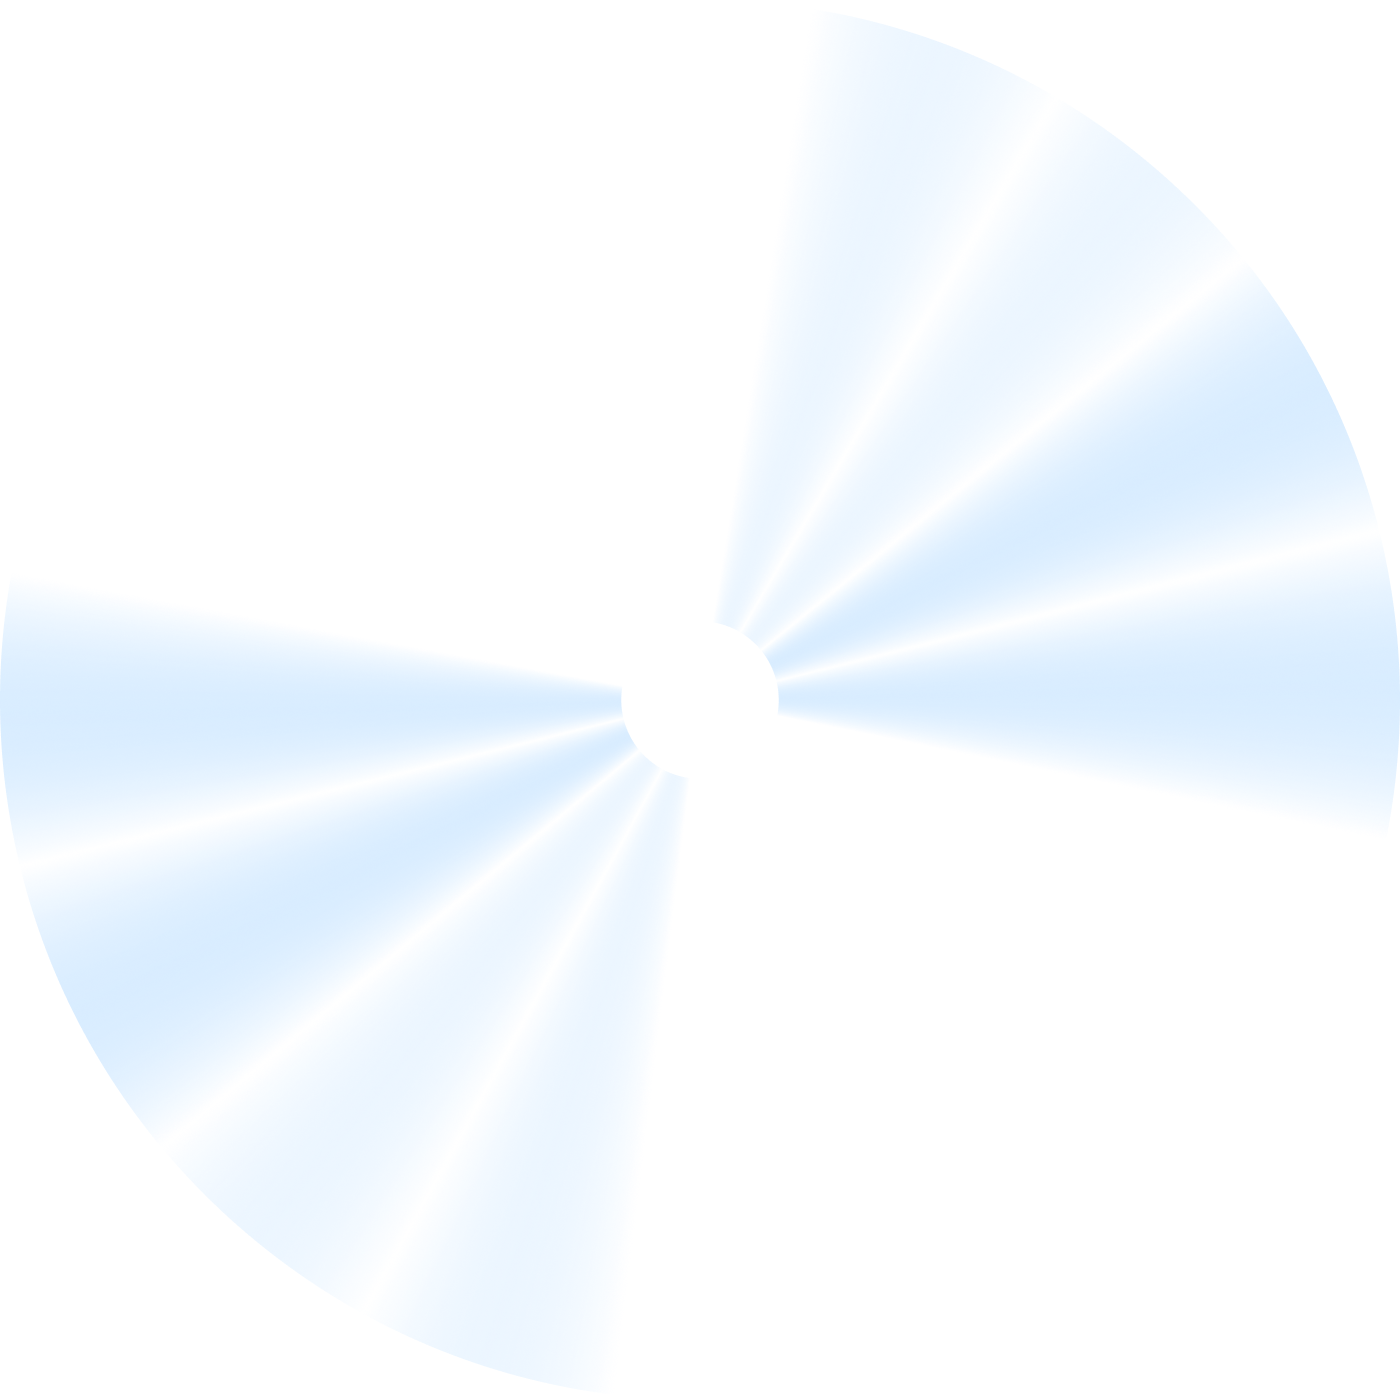
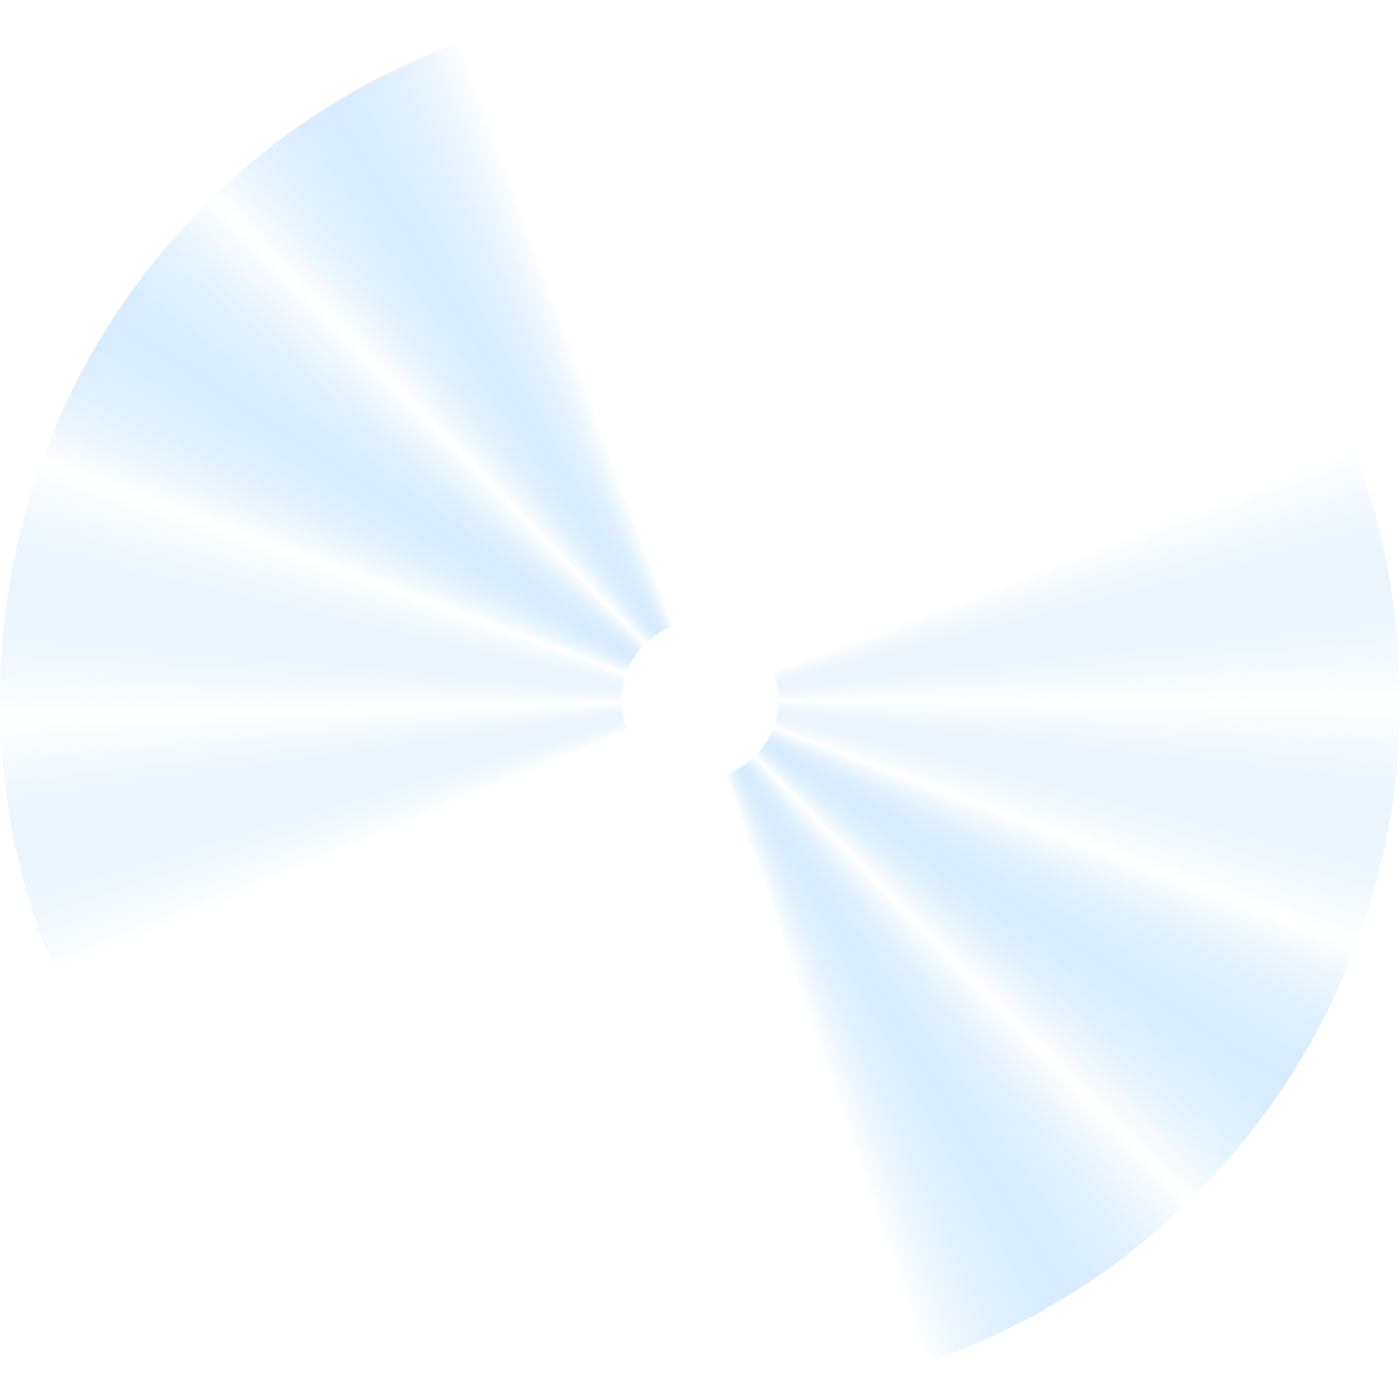
fixed cd rotation stuff

Changed region(s): [[0.5221, 0.215, 1.0, 0.9521], [0.0, 0.0307, 0.4914, 0.7986]]

diff --git a/app/page.tsx b/app/page.tsx
@@ -101,12 +101,11 @@ export default function Home(props: typeof trackList) {
             (trackList.length - i + 1) * 0.0125
           }s`;
           imageImg.style.opacity = "0";
-          imageImg.style.transform = `translate3d(0,0,0) scaleY(${
-            3 - 2 * easeInQuad(scrollProgress)
-          })`;
         }
         animateImages(-3 + 3 * easeOutQuad(scrollProgress));
-        scrollImages.style.transform = `scaleY(${easeInQuad(scrollProgress)})`;
+        scrollImages.style.transform = `translateY(${
+          200 - easeInQuad(scrollProgress) * 200
+        }px)`;
 
         status1.style.transform = `translateY(${
           0 - 200 * easeInQuad(scrollProgress)
@@ -136,14 +135,13 @@ export default function Home(props: typeof trackList) {
           image.style.backgroundColor = "#000";
           imageImg.style.transitionDelay = `${i * 0.0125}s`;
           imageImg.style.opacity = "1";
-          imageImg.style.transform = `translate3d(0,0,0) scaleY(1)`;
           image.style.transform = `translate3d(0,0,0) skewX(0deg)`;
           imageImg.style.transform = `translate3d(0,0,0) skewX(0deg)`;
         }
         animateImages(easeImageScroll(scrollPercentage));
-        scrollImages.style.transform = `scaleY(1)`;
+        scrollImages.style.transform = `translateY(0)`;
         scrollImages.style.filter = `brightness(1)`;
-        // scrollImages.style.opacity = "1";
+        scrollImages.style.opacity = "1";
 
         status1.style.transform = `translateY(-200px)`;
         status1.style.opacity = "0";
@@ -171,16 +169,18 @@ export default function Home(props: typeof trackList) {
         for (let i = 0; i < trackList.length; i++) {
           const image = images[i] as HTMLElement;
           const imageImg = image.querySelector("img") as HTMLElement;
-          image.style.transform = `translate3d(0,0,0) skewX(${
-            scrollProgress * 89.5
-          }deg)`;
-          imageImg.style.transform = `translate3d(0,0,0) skewX(${
-            -scrollProgress * 89.5
-          }deg)`;
+          image.style.transform = `translate3d(0,0,0) scaleX(${
+            1 - easeOutQuad(scrollProgress) * 0.99
+          })`;
+          imageImg.style.transform = `translate3d(0,0,0) scaleX(${
+            1 + easeOutQuad(scrollProgress)
+          })`;
         }
         animateImages(1 + scrollProgress);
-        scrollImages.style.filter = `brightness(${1 + scrollProgress * 3})`;
-        // scrollImages.style.opacity = `${1 - scrollProgress}`;
+        scrollImages.style.filter = `brightness(${1 + scrollProgress * 10})`;
+        scrollImages.style.opacity = `${
+          1 - easeOutQuad(easeOutQuad(scrollProgress)) * 0.85
+        }`;
       }
     }
 
@@ -201,12 +201,10 @@ export default function Home(props: typeof trackList) {
         image.style.width = `${width}vw`;
         imageImg.style.filter = `saturate(0.2) brightness(${Math.pow(
           width / maxWidth,
-          0.5
+          0.75
         )})`;
         maxImg.style.filter = `saturate(1) brightness(1)`;
         scrollLine.style.width = `${width}vw`;
-        // scrollLine.style.backgroundColor = "rgba(255,255,255,0)";
-        // maxScrollLine.style.backgroundColor = "rgba(255,255,255,0.025)";
 
         remainingWidth -= width;
       }
@@ -419,7 +417,7 @@ export default function Home(props: typeof trackList) {
                 {trackList.map((track, i) => (
                   <div
                     key={i}
-                    className="h-[200px] relative overflow-hidden origin-top"
+                    className="h-[200px] relative overflow-hidden origin-left"
                     style={{
                       transform: "translate3d(0,0,0)",
                       transition: "background-color 0.6s ease",
@@ -476,6 +474,107 @@ export default function Home(props: typeof trackList) {
         <h1>Renaissance</h1>
         <div className="absolute top-0 left-0 w-full h-full">
           <Cd size={500} />
+        </div>
+        <div className="absolute bottom-0 left-0 w-full detail text-[12px] flex flex-row items-start gap-20 z-10 pointer-events-none">
+          <div className="max-w-[550px] text-balance">
+            <div>
+              All rights go to Beyoncé and Parkwood Entertainment Ltd. © 2022
+            </div>
+            <br />
+            Not affiliated with or endorsed by Beyoncé or Parkwood Entertainment
+            Ltd.
+            <br />
+            All images and music used are the property of their respective
+            owners.
+            <br />
+            No copyright infringement intended.
+          </div>
+          <div className="flex-1 flex flex-wrap gap-x-20 gap-y-4 justify-end">
+            <a
+              className="pointer-events-auto"
+              href="https://www.instagram.com/beyonce/"
+              target="_blank"
+            >
+              Instagram
+            </a>
+            <a
+              className="pointer-events-auto"
+              href="https://twitter.com/beyonce"
+              target="_blank"
+            >
+              Twitter
+            </a>
+            <a
+              className="pointer-events-auto"
+              href="https://www.facebook.com/beyonce"
+              target="_blank"
+            >
+              Facebook
+            </a>
+            <a
+              className="pointer-events-auto"
+              href="https://www.youtube.com/user/beyonce"
+              target="_blank"
+            >
+              YouTube
+            </a>
+            <a
+              className="pointer-events-auto"
+              href="https://open.spotify.com/artist/6vWDO969PvNqNYHIOW5v0m"
+              target="_blank"
+            >
+              Spotify
+            </a>
+            <a
+              className="pointer-events-auto"
+              href="https://music.apple.com/us/artist/beyonc%C3%A9/1419227"
+              target="_blank"
+            >
+              Apple Music
+            </a>
+            <a
+              className="pointer-events-auto"
+              href="https://tidal.com/browse/artist/4443"
+              target="_blank"
+            >
+              Tidal
+            </a>
+            <a
+              className="pointer-events-auto"
+              href="https://www.amazon.com/Beyonce/e/B00197R8L8"
+              target="_blank"
+            >
+              Amazon
+            </a>
+            <a
+              className="pointer-events-auto"
+              href="https://www.beyonce.com/"
+              target="_blank"
+            >
+              Website
+            </a>
+            <a
+              className="pointer-events-auto"
+              href="https://www.beyonce.com/shop/"
+              target="_blank"
+            >
+              Shop
+            </a>
+            <a
+              className="pointer-events-auto"
+              href="https://www.beyonce.com/foundation/"
+              target="_blank"
+            >
+              Foundation
+            </a>
+            <a
+              className="pointer-events-auto"
+              href="https://www.beyonce.com/ivy-park/"
+              target="_blank"
+            >
+              Ivy Park
+            </a>
+          </div>
         </div>
       </section>
     </main>

diff --git a/components/Cd/Cd.tsx b/components/Cd/Cd.tsx
@@ -61,16 +61,27 @@ const Cd = ({ size }: props) => {
       ((latest - windowSize.width / 2) / (windowSize.width / 2)) * 40
   );
 
+  const rotateZ = useTransform(
+    motionValue(
+      Math.atan2(
+        cursorPosition.y - windowSize.height / 2,
+        cursorPosition.x - windowSize.width / 2
+      ) *
+        (180 / Math.PI)
+    ),
+    (latest: number) => latest
+  );
+
   const translateX = useTransform(
-    motionValue(cursorPosition.y),
+    motionValue(cursorPosition.x),
     (latest: number) =>
-      (-(latest - windowSize.height / 2) / (windowSize.height / 2)) * 2
+      ((latest - windowSize.width / 2) / (windowSize.width / 2)) * 2
   );
 
   const translateY = useTransform(
-    motionValue(cursorPosition.x),
+    motionValue(cursorPosition.y),
     (latest: number) =>
-      (-(latest - windowSize.width / 2) / (windowSize.width / 2)) * 2
+      ((latest - windowSize.height / 2) / (windowSize.height / 2)) * 2
   );
 
   const opacity1 = useTransform(
@@ -122,23 +133,23 @@ const Cd = ({ size }: props) => {
           }}
         >
           <div className="absolute w-[97.5%] h-[97.5%] flex justify-center items-center z-[2] mix-blend-hard-light">
-            <img
+            <motion.img
               className="absolute w-full h-full z-[4] mix-blend-plus-lighter opacity-70"
               src="/images/cd/sat3.png"
               alt="sat2"
-              style={{ objectFit: "cover" }}
+              style={{ objectFit: "cover", rotateZ: rotateZ }}
             />
-            <img
-              className="absolute w-full h-full z-[3] mix-blend-soft-light"
+            <motion.img
+              className="absolute w-full h-full z-[3] mix-blend-hard-light"
               src="/images/cd/sat.png"
               alt="sat"
-              style={{ objectFit: "cover" }}
+              style={{ objectFit: "cover", rotateZ: rotateZ }}
             />
-            <img
+            <motion.img
               className="absolute w-full h-full z-[2] opacity-100"
               src="/images/cd/mask.png"
               alt="mask"
-              style={{ objectFit: "cover" }}
+              style={{ objectFit: "cover", rotateZ: rotateZ }}
             />
             <motion.img
               className="absolute w-[99.5%] h-[99.5%] z-[1]"
@@ -154,11 +165,11 @@ const Cd = ({ size }: props) => {
             />
           </div>
           <div className="absolute w-full h-full z-[1]">
-            <img
+            <motion.img
               className="absolute w-full h-full z-[1]"
               src="/images/cd/cd1.png"
               alt="cd"
-              style={{ objectFit: "cover" }}
+              style={{ objectFit: "cover", rotateZ: rotateZ }}
             />
             <motion.img
               className="absolute w-[99.7%] h-[99.7%] z-[2] transition-transform duration-[900ms] ease-out"
@@ -168,6 +179,7 @@ const Cd = ({ size }: props) => {
             />
             <motion.div
               className="absolute w-full h-full"
+              style={{ rotateZ: rotateZ }}
               // animate={{ rotate: -360 }}
               // transition={{
               //   repeat: Infinity,
